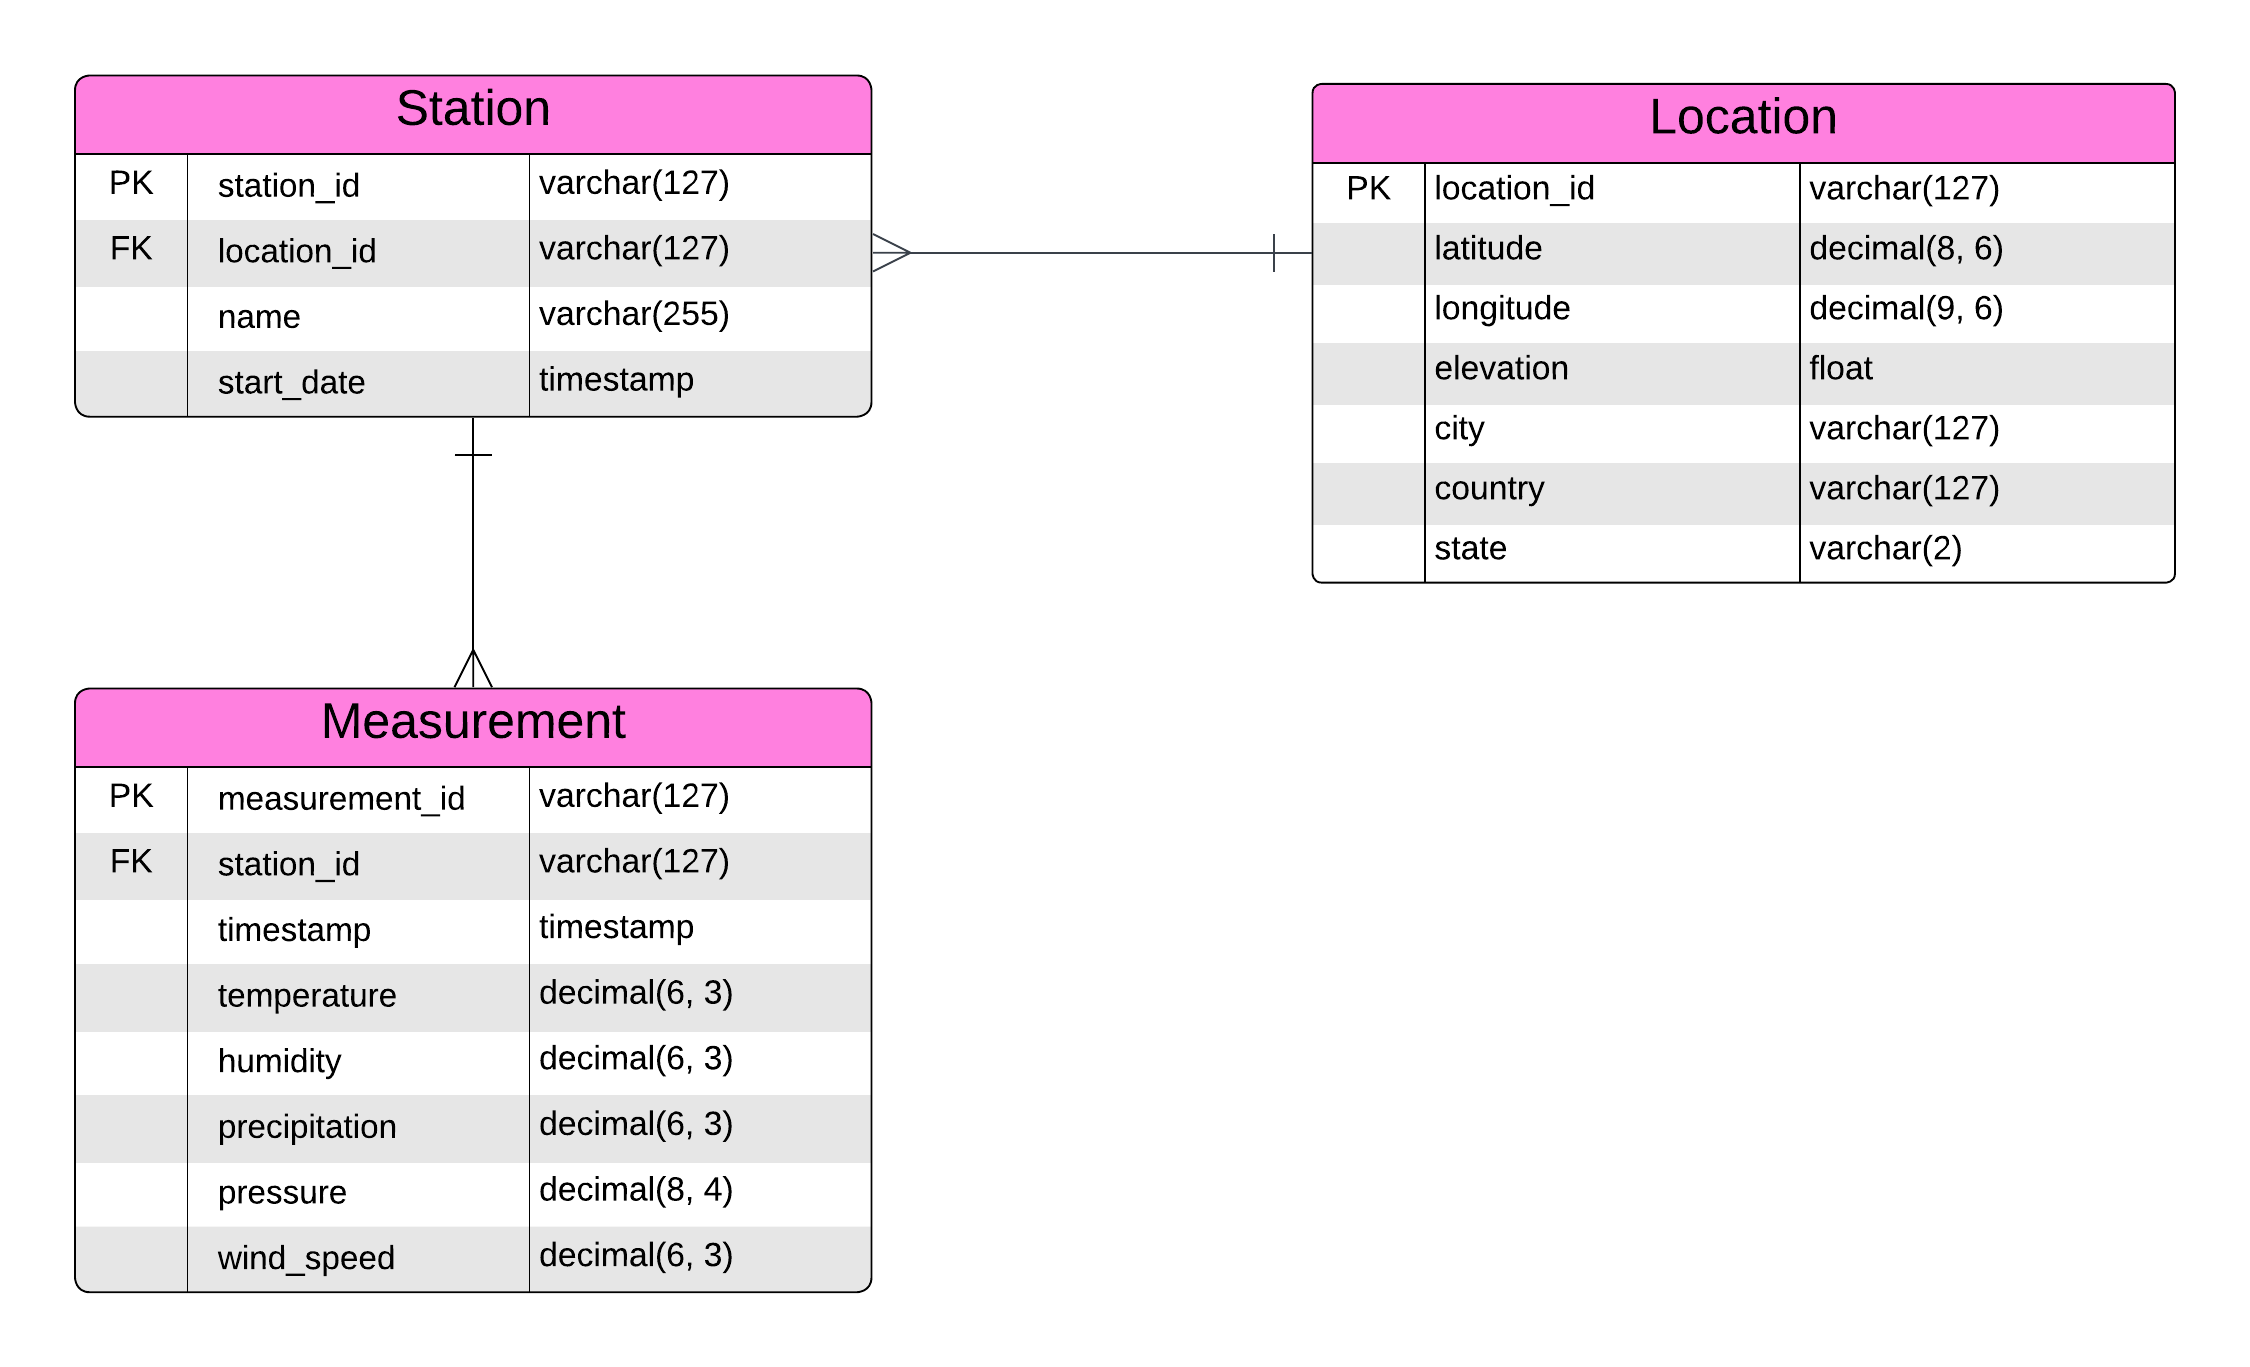
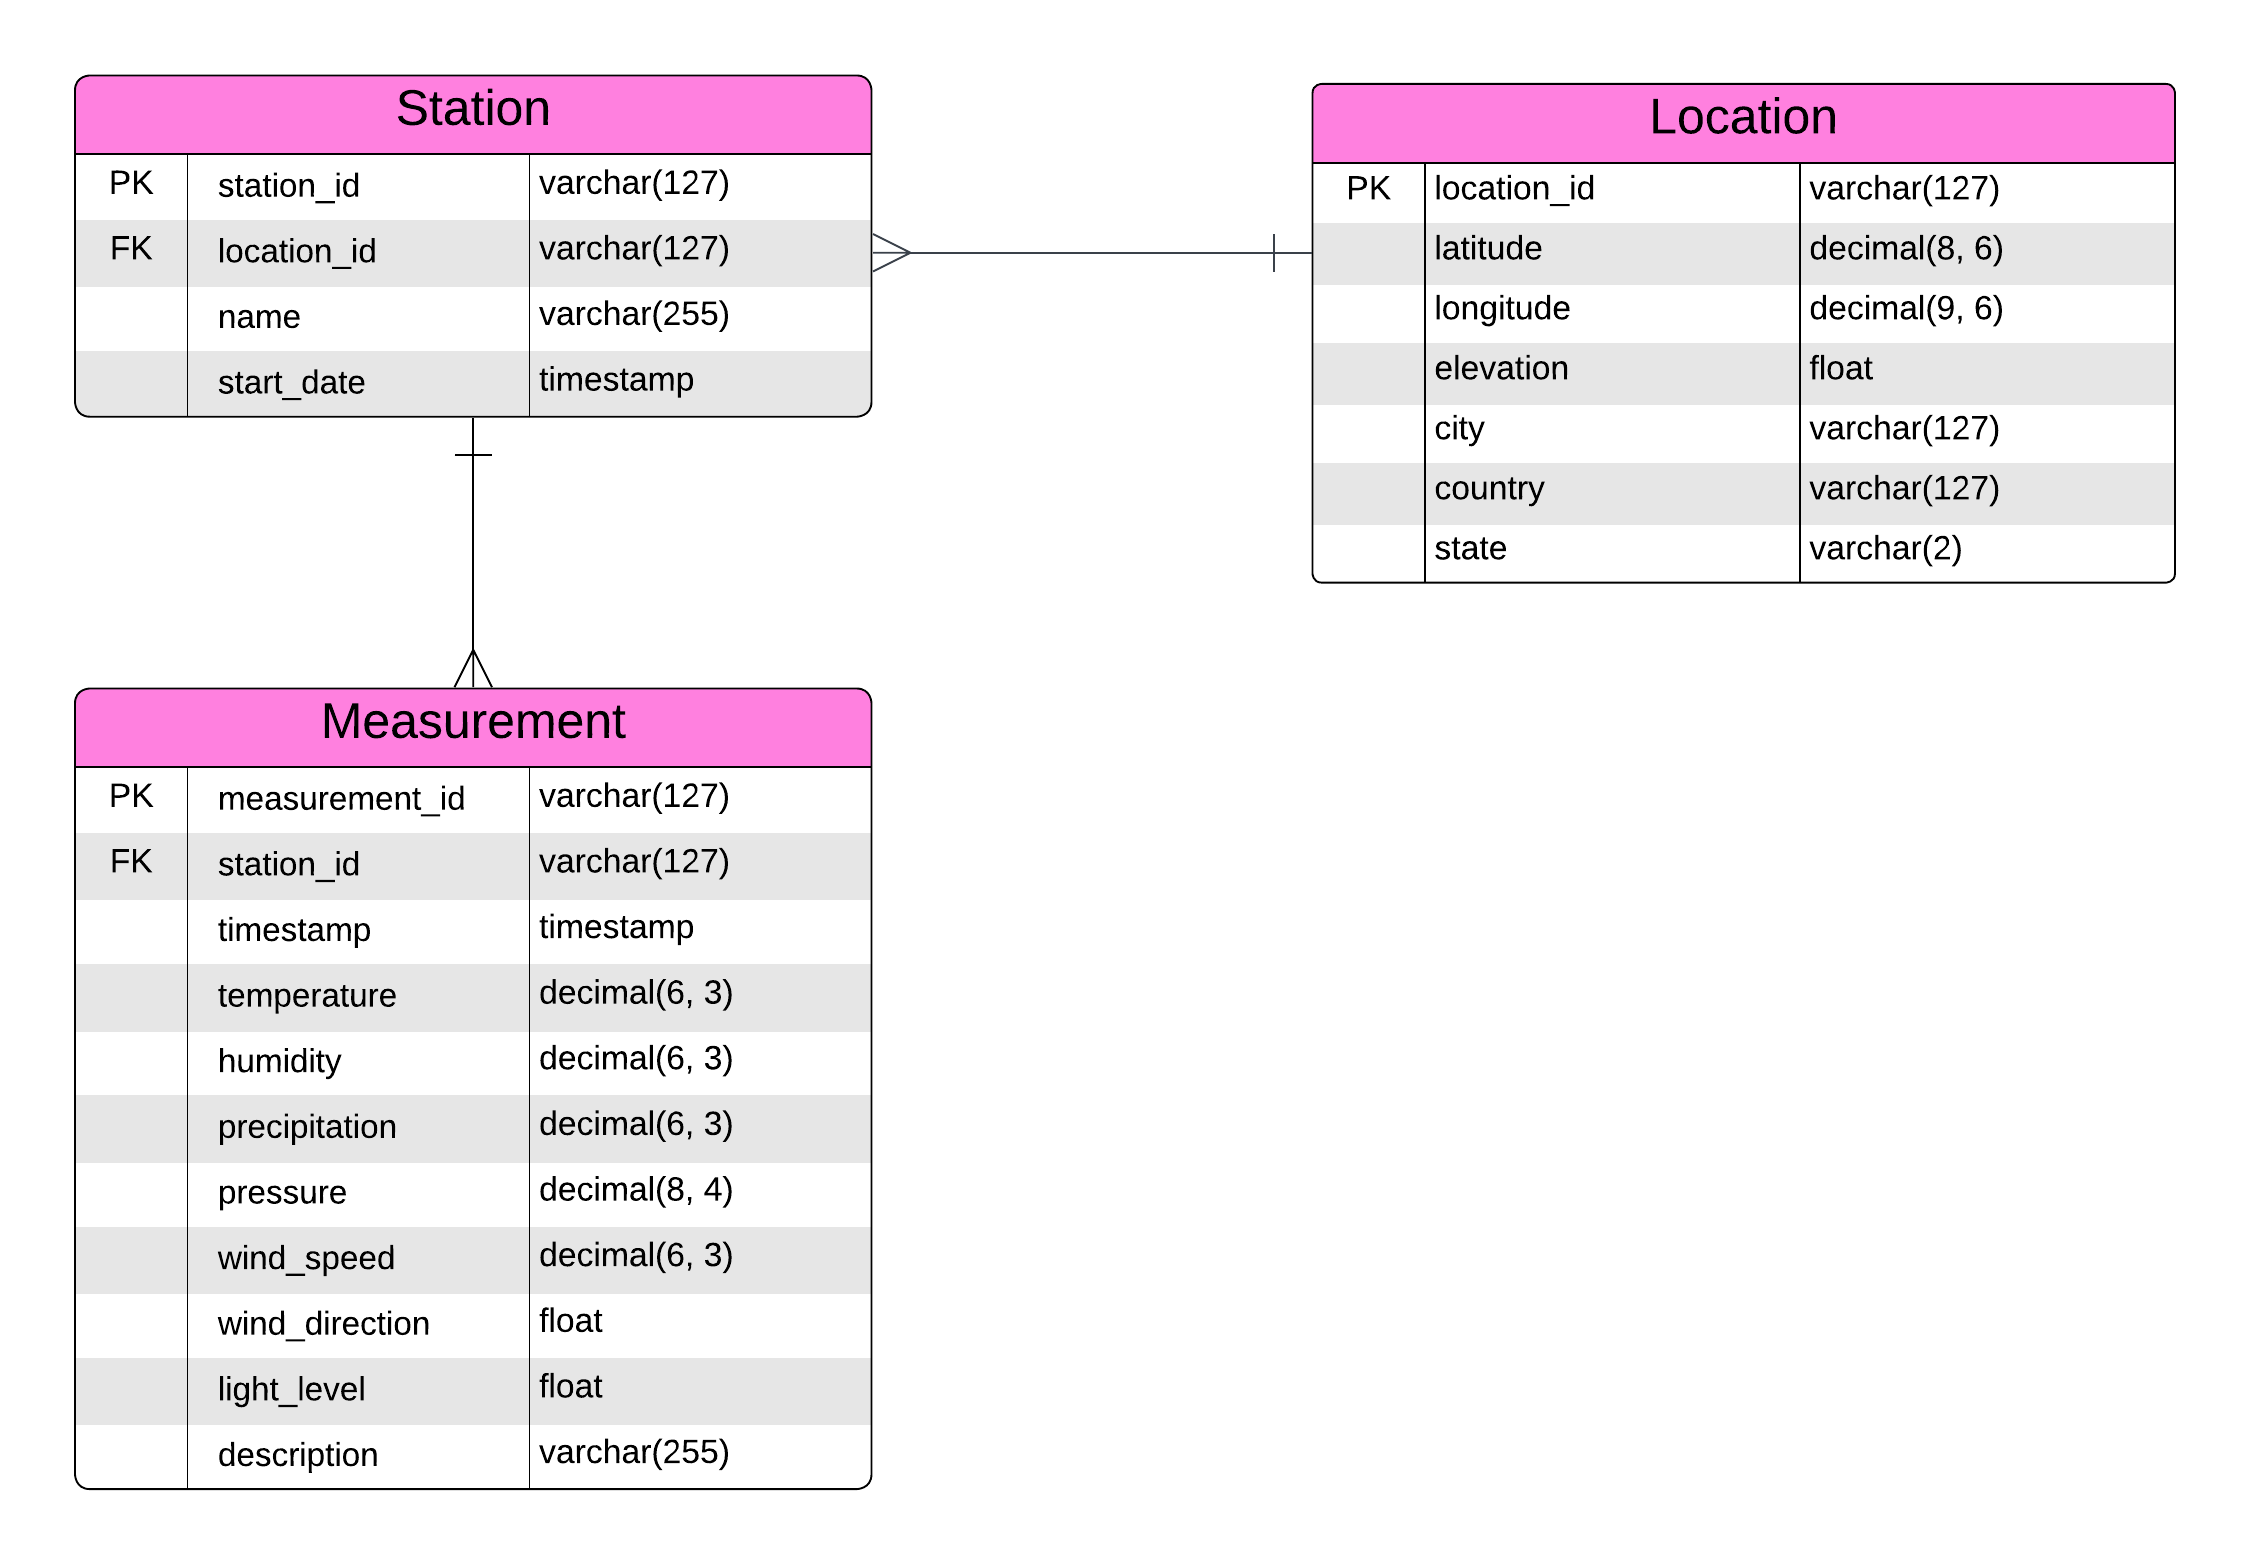
Add additional columns

Changed region(s): [[0.0311, 0.4301, 0.4044, 0.9525], [0.56, 0.0307, 0.9644, 0.4301], [0.0311, 0.0307, 0.4044, 0.3072]]

diff --git a/docs/database_schema.md b/docs/database_schema.md
@@ -34,4 +34,7 @@ A single measurement taken by a weather station
 - **precipitation**: The total precipitation at the station since the last measurement (cm)
 - **pressure**: The pressure at the station (mb)
 - **wind_speed**: The wind speed at the station (m/s)
+- **wind_direction**: The direction the wind is blowing (degrees)
+- **light_level**: The current light level, stored as a decimal number
+- **description**: A brief description of the current conditions
 
